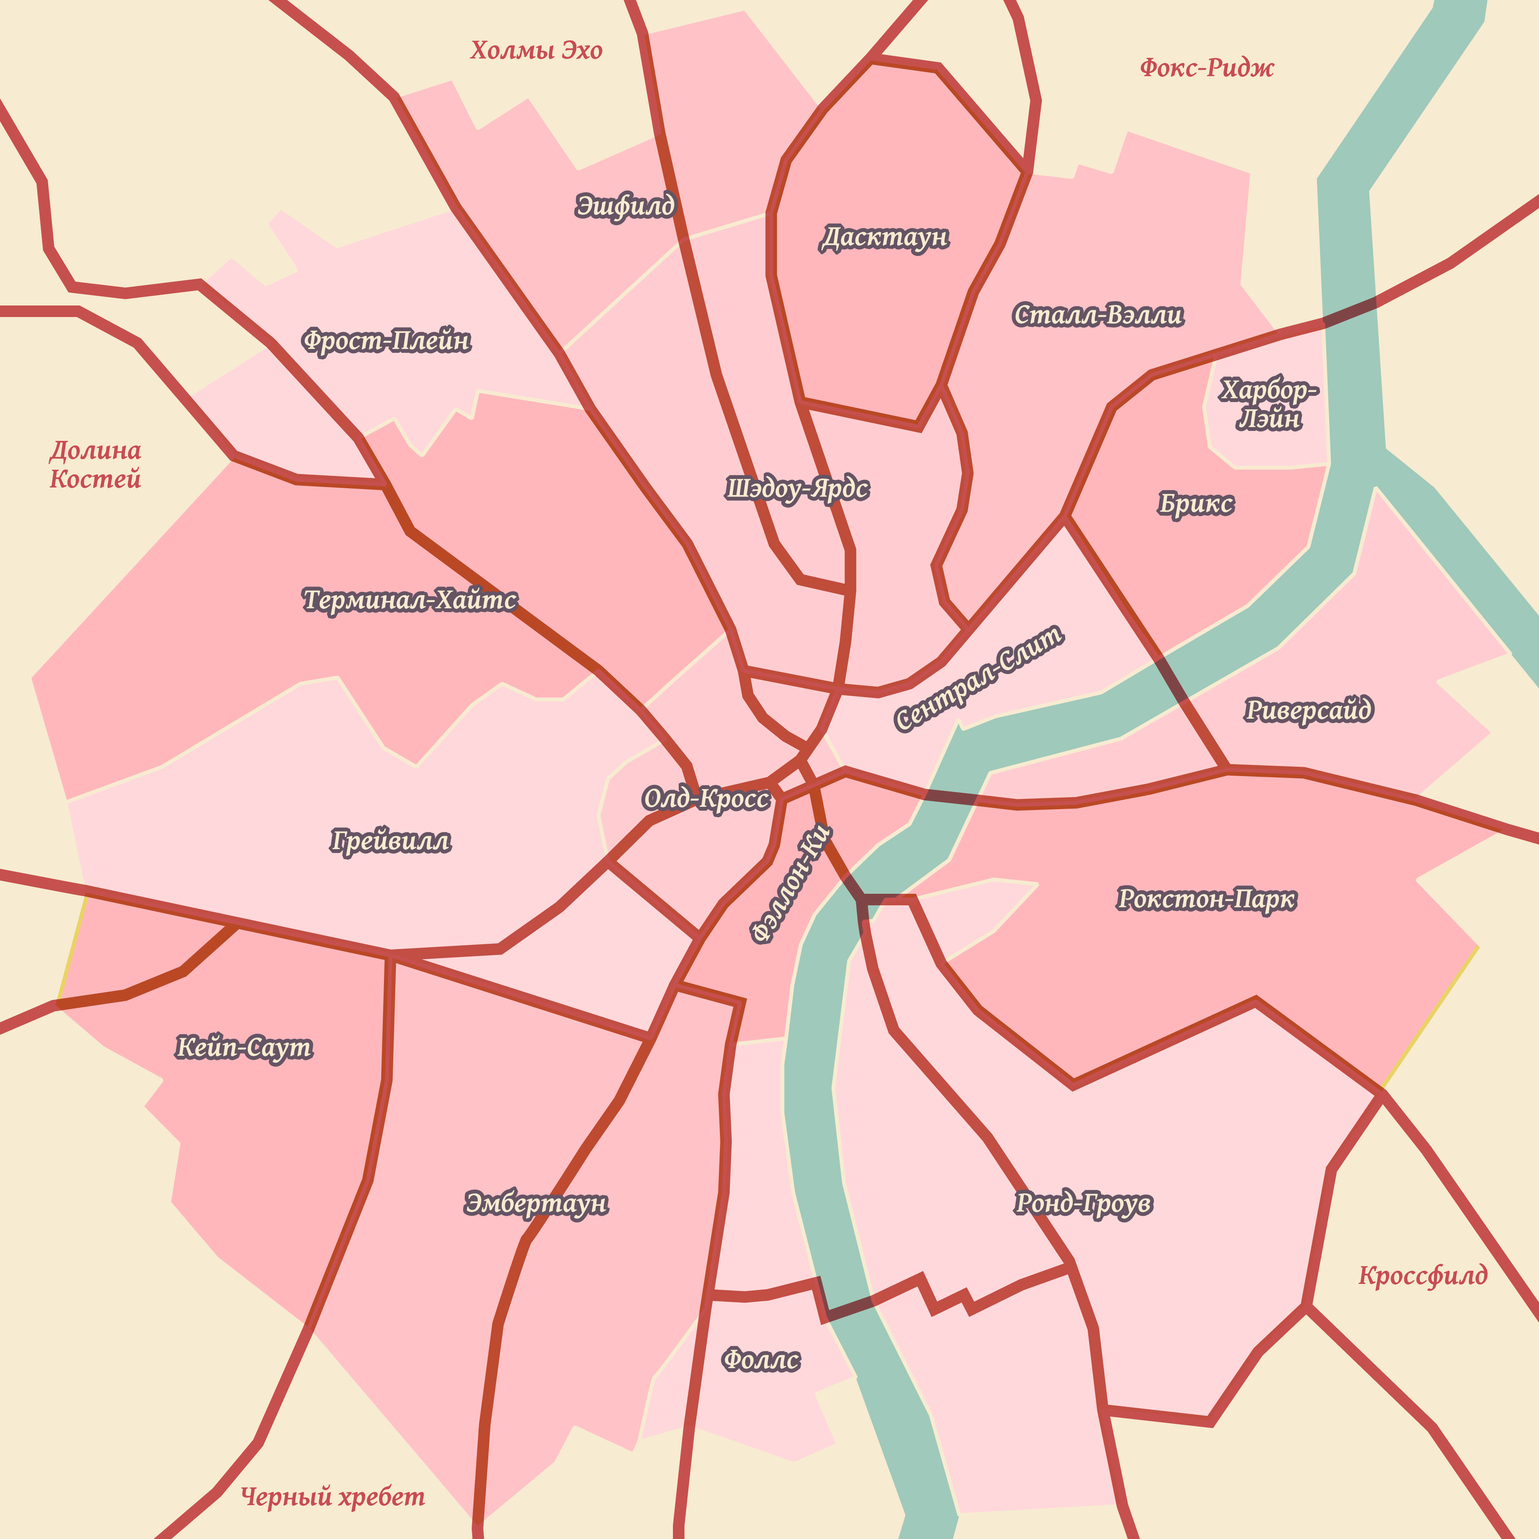
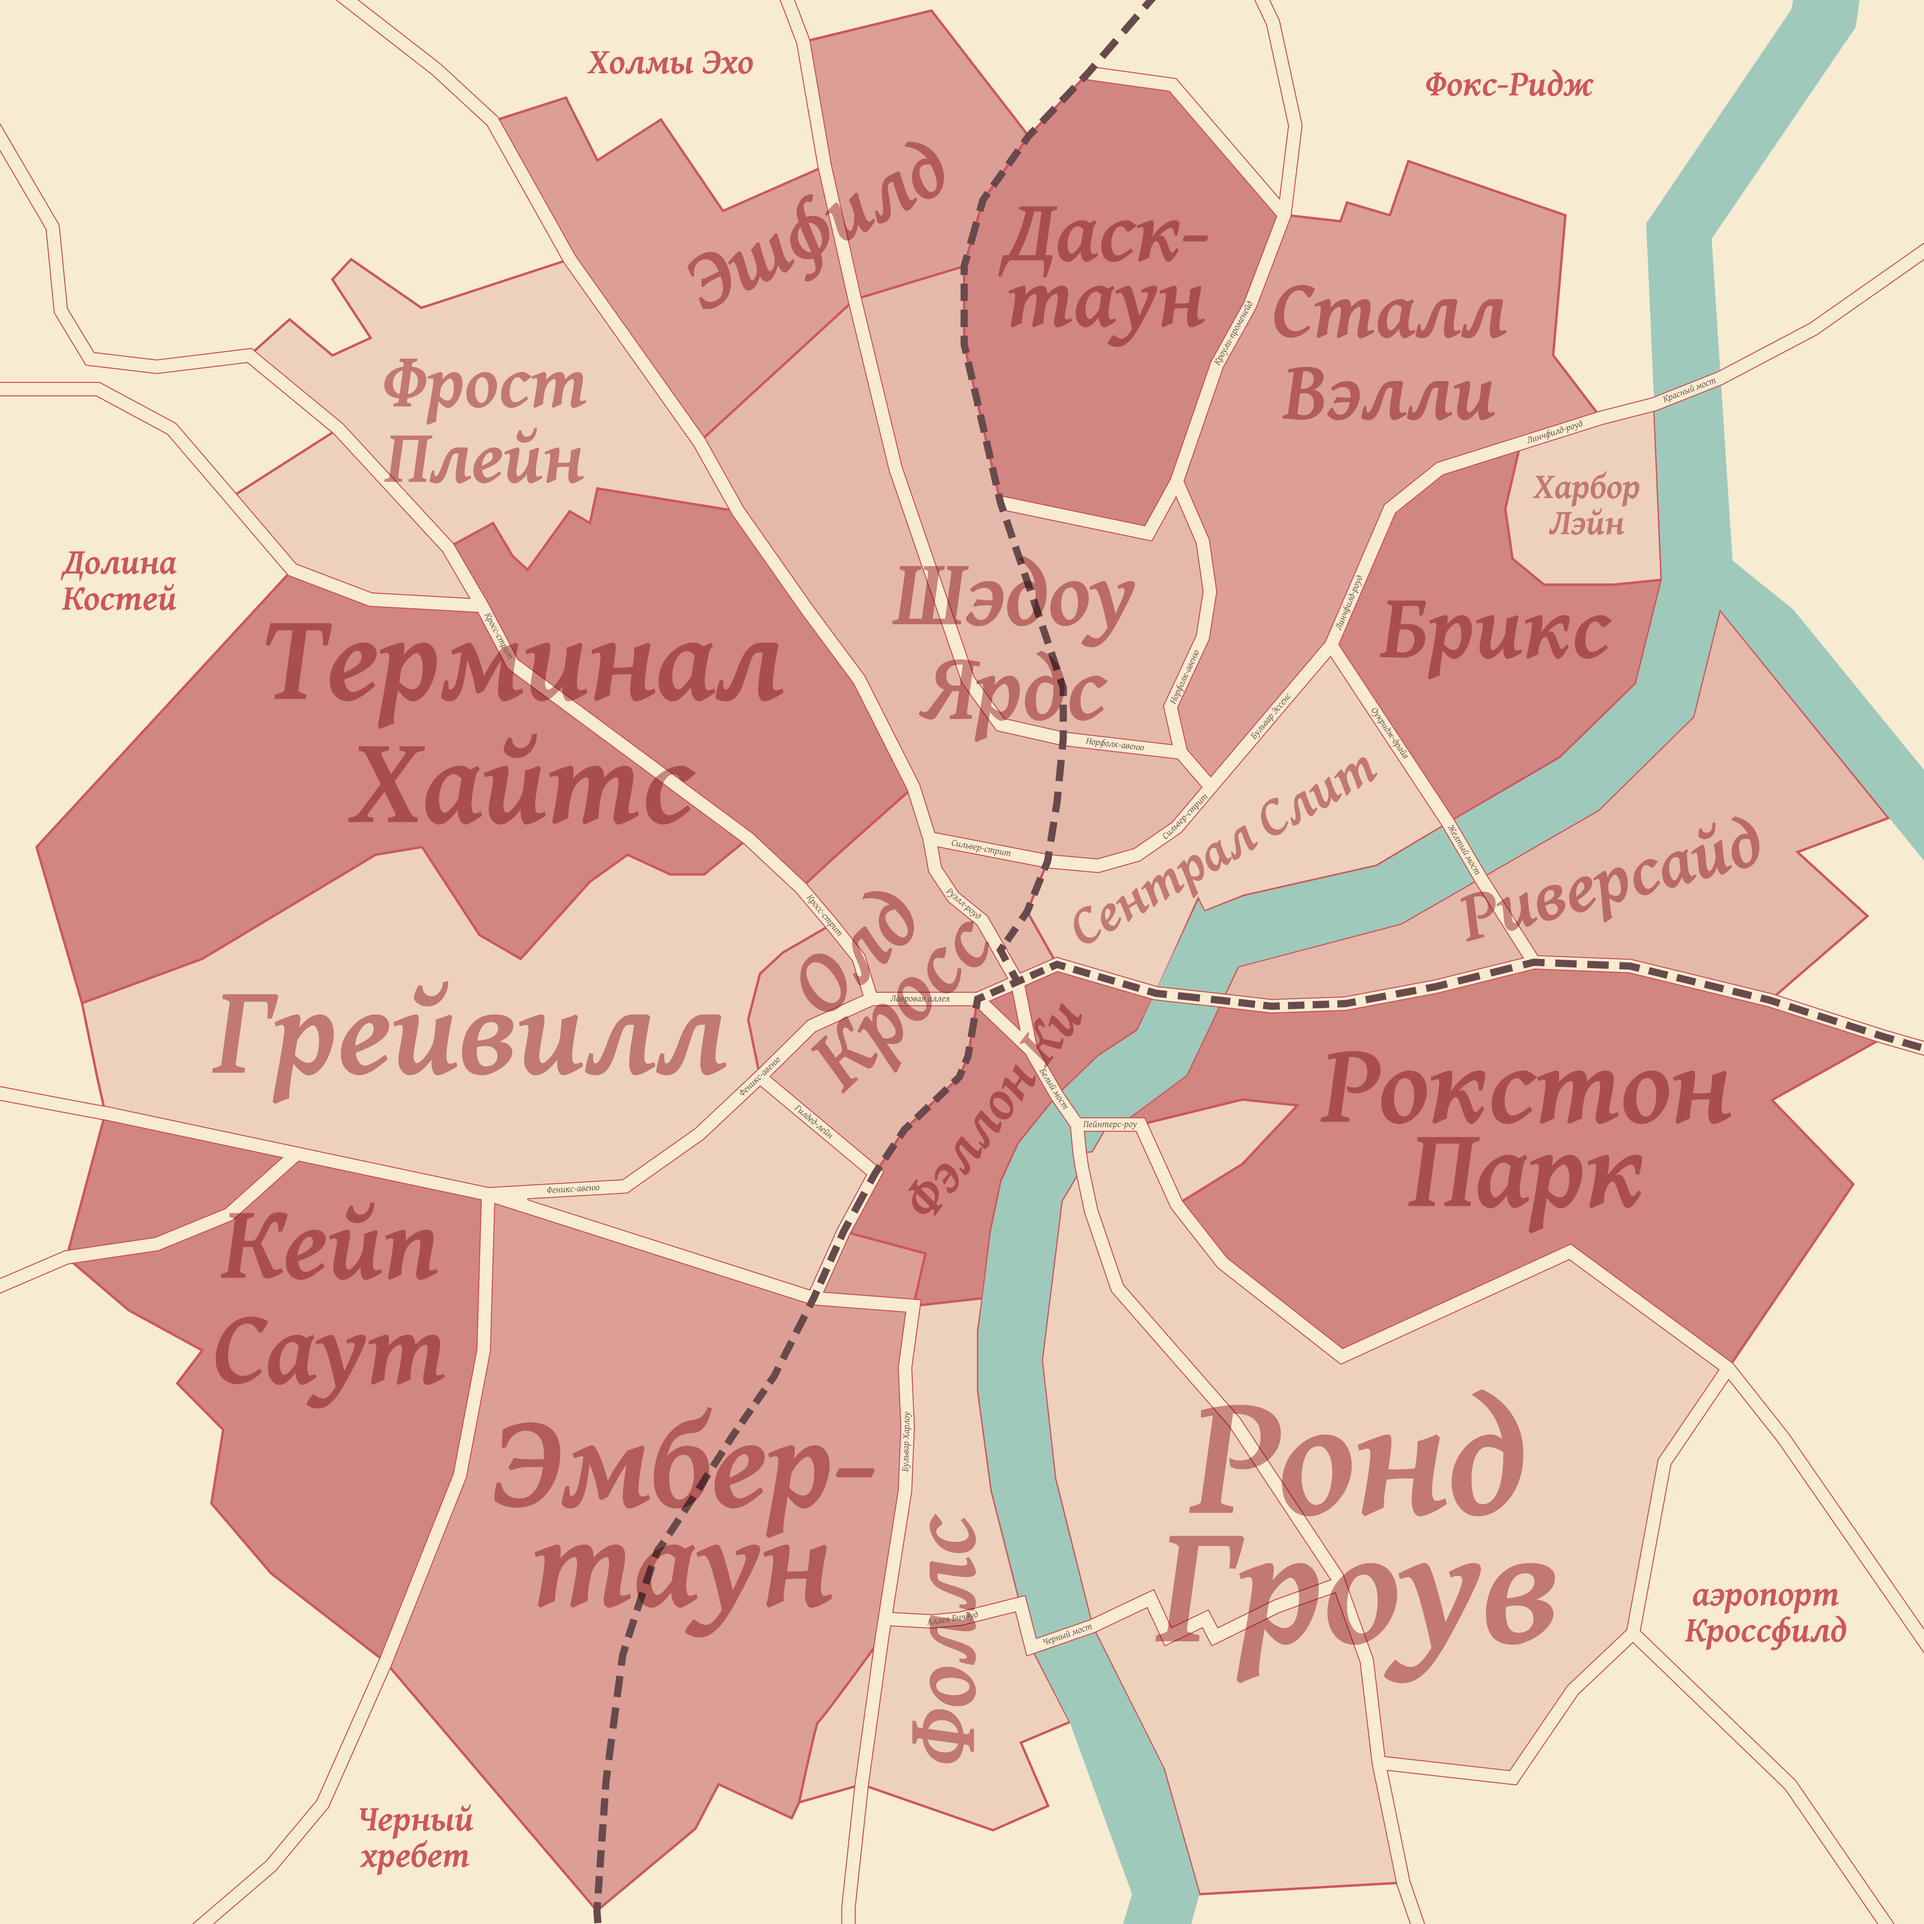
Published multiple files

diff --git a/src/site/notes/02. published/Меридиан - районы и пригороды.md b/src/site/notes/02. published/Меридиан - районы и пригороды.md
@@ -1,0 +1,85 @@
+---
+{"dg-publish":true,"permalink":"/02-published/meridian-rajony-i-prigorody/","tags":["хабы","локация"]}
+---
+
+![map_meridian_full.png](/img/user/09.%20files/map_meridian_full.png)
+# Районы
+## [[07. drafts/Места/Брикс\|Брикс]]
+Логистический хаб города, где находятся главные контейнерные терминалы и склады. 
+- [[07. drafts/Места/Закусочная «Гарриетс»\|Закусочная «Гарриетс»]]
+- Отделение детективного агентства Пинкертона
+## [[07. drafts/Места/Дасктаун\|Дасктаун]] 
+Район на северной окраине, промышленное сердце города. 
+-  [[Заводы «Cross Industries»\|Заводы «Cross Industries»]]
+## [[07. drafts/Места/Грейвилл\|Грейвилл]]
+Юридически "ничья земля", где теперь теснится самострой. Оплот подпольной химии и медицины.   
+- Редакция газеты "Полуденный глашатай"
+## [[07. drafts/Места/Кейп-Саут\|Кейп-Саут]]
+Трущобы известные бедностью и высокой преступностью. В этом районе живут мигранты и безработные.
+## [[07. drafts/Места/Олд-Кросс\|Олд-Кросс]]
+Центральный исторический район. 
+- Феникс-сквер
+- [[07. drafts/Места/Ратуша Меридиана\|Ратуша Меридиана]]
+- [[07. drafts/Места/Бар «Тень Фортуны»\|Бар «Тень Фортуны»]]
+- Особняк Кроссов
+## [[07. drafts/Места/Риверсайд\|Риверсайд]]
+Роскошный район развлечений, вытянувшийся вдоль реки. 
+- [[07. drafts/Места/Джаз-клуб «Лунный Свет»\|Джаз-клуб «Лунный Свет»]]
+- [[07. drafts/Места/Театр «Золотая Маска»\|Театр «Золотая Маска»]]
+## [[07. drafts/Места/Рокстон-Парк\|Рокстон-Парк]]
+Богатый жилой район, утопающий в зелени. Вместе с Ронд-Гроув отделен от городского центра рекой.  
+- [[07. drafts/Места/Парк «Черное зеркало»\|Парк «Черное зеркало»]]
+- Балетная школа "Конкордия"
+## [[07. drafts/Места/Ронд-Гроув\|Ронд-Гроув]]
+Изолированный жилой район, где расположились особняки богачей и знаменитостей. 
+- Мавзолей Кроссов
+## [[07. drafts/Места/Сентрал-Слит\|Сентрал-Слит]]
+Элитный деловой район, где заканчивается строительство небоскребов. 
+- [[07. drafts/Места/Башни «Саут-Винд»\|Башни «Саут-Винд»]]
+- Университет Меридиана
+## [[07. drafts/Места/Сталл-Вэлли\|Сталл-Вэлли]]
+Жилой район для рабочих заводов, доков и складов. 
+## [[07. drafts/Места/Терминал Хайтс\|Терминал Хайтс]]
+Жилой район для среднего класса. 
+- Школа им. Кайла Линнея
+## [[07. drafts/Места/Фоллс\|Фоллс]]
+Первый из районов, возведенный вокруг старого форта.  
+- [[07. drafts/Места/Форт Харлоу\|Форт Харлоу]]
+- Клуб "Экдизис"
+## [[07. drafts/Места/Фрост-Плейн\|Фрост-Плейн]]
+Промзона на окраине. 
+## [[07. drafts/Места/Фэллон-Ки\|Фэллон-Ки]]
+Деловой район, без лишней скромности носящий имя тех, на чьи деньги построен. 
+- [[07. drafts/Места/Казино «Ноктюрн»\|Казино «Ноктюрн»]]
+- Ипподром
+- Адвокатура Шип и Ниллс
+## [[07. drafts/Места/Харбор-Лэйн\|Харбор-Лэйн]]
+Речной порт и верфи. 
+- [[07. drafts/Места/Старый Порт\|Старый Порт]]
+## [[07. drafts/Места/Шадоу-Ярдс\|Шадоу-Ярдс]]
+Центральный вокзал и гигантское железнодорожное депо. 
+- [[07. drafts/Места/Госпиталь св. Верены\|Госпиталь св. Верены]]
+- Полицейское управление Меридиана
+## [[07. drafts/Места/Эмбертаун\|Эмбертаун]]
+- [[07. drafts/Места/Катакомбы Эмбертауна\|Катакомбы Эмбертауна]]
+- Городское кладбище 
+- Похоронное бюро "Моргенхайт и сыновья"
+## [[07. drafts/Места/Эшфилд\|Эшфилд]]
+Пригородный спальный район. 
+  - Отель "Эреб"
+# Окрестности и пригороды
+## [[07. drafts/Места/Кроссфилд\|Кроссфилд]]
+  Новенький аэропорт в пригороде. 
+## [[07. drafts/Места/Фокс-Ридж\|Фокс-Ридж]]
+  Фермы и сельскохозяйственные угодья. 
+  - Конгрегация св. Коула Реньяра
+## [[07. drafts/Места/Фортуна (река)\|Фортуна (река)]]
+  Центральная водная артерия Меридиана. Она протекает сквозь центр города и играет ключевую роль в его логистике, связанной с речным портом Харбор-Лэйн.
+## [[07. drafts/Места/Холмы Эхо\|Холмы Эхо]]
+Холмистая пустошь на север от Меридиана. Получила свое название из-за необычной акустики, из-за которой завывание ветров наводит на путников особенное отчаяние.
+- Психиатрическая лечебница братьев Дженкинс
+## [[07. drafts/Места/Черный хребет\|Черный хребет]]
+Цепь шахтных туннелей компании [[07. drafts/Cross Industries\|Cross Industries]], которые сливаются с [[07. drafts/Места/Катакомбы Эмбертауна\|катакомбами Эмбертауна]]. По слухам, здесь нередко скрываются преступники и беглецы.
+## [[07. drafts/Места/Долина Костей\|Долина Костей]]
+Негостеприимная долина на западе от Меридиана, превращенное в свалку. Говорят, что сюда отправляют трупы несчастных, перешедших дорогу городским воротилам.
+

diff --git a/src/site/notes/99. templates/leaflet.md b/src/site/notes/99. templates/leaflet.md
@@ -1,0 +1,31 @@
+---
+{"dg-publish":true,"permalink":"/99-templates/leaflet/"}
+---
+
+
+> [!NOTE]- Quick Calculator  
+> Map Height in Pixels: `INPUT[number:map_height_y]`  
+> Map Width in Pixels: `INPUT[number:map_width_x]`  
+> lat: `VIEW[{map_height_y} / 2][math]`  
+> long: `VIEW[{map_width_x} / 2][math]`  
+> How Many Pixels In Scale: `INPUT[number:scale_pixels]`  
+> How Many Units in Scale: `INPUT[number:scale_pixels_range]`  
+> Scale: `VIEW[1/({scale_pixels}/{scale_pixels_range})][math:mapCalc1]`
+
+```leaflet  
+id: MapCalcExample ### Must be unique with no spaces  
+image: [[map_meridian_full.png]] ### Link to the map image file  
+bounds: [[0,0], [5000, 5000]] ### Size of the map in px Height_y, Width_x. Ignore 0,0  
+height: 850px ### Size of the leaflet embed in px on your screen  
+width: 95% ### Size of the leaflet embed in your note  
+lat: 2500 ### To center the map, make this half of the map height.  
+long: 2500 ### To center the map, make this half of the map width.  
+minZoom: -3 ### Controls how far away from the map you can zoom out. Hover over the target icon to see the current level.  
+maxZoom: 1 ### Controls how far towards the map you can zoom in. Hover over the target icon to see the current level.  
+defaultZoom: -1 ### Sets the default zoom level when the map loads. Hover over the target icon to see the current level.  
+zoomDelta: 0.5 ### Adjust how much the zoom changes when you zoom in or out.  
+unit: mi ### The value displayed when measuring so you know what type of unit is being measure.  
+scale: 0.09328358208955223 ### Real units/px (resolution) of your map  
+recenter: false  
+darkmode: false ### marker
+```

diff --git a/src/site/notes/00. home/Клуб «Экдизис».md b/src/site/notes/00. home/Клуб «Экдизис».md
@@ -2,6 +2,7 @@
 {"dg-publish":true,"permalink":"/00-home/klub-ekdizis/","tags":["хабы","gardenEntry"]}
 ---
 
+- [[07. drafts/leaflet\|leaflet]]
 # Правила
 - [[03. rules/Мета - манифест, философия, атмосфера\|Мета - манифест, философия, атмосфера]]
 - [[03. rules/Создание персонажа\|Создание персонажа]]
@@ -12,5 +13,6 @@
 - [[02. published/Анонс\|Анонс]]
 - [[01. hubs/Глоссарий\|Глоссарий]]
 # Локации
+- [[02. published/Меридиан - районы и пригороды\|Меридиан - районы и пригороды]]
 # Персонажи
 - [[01. hubs/Личности\|Личности]]
